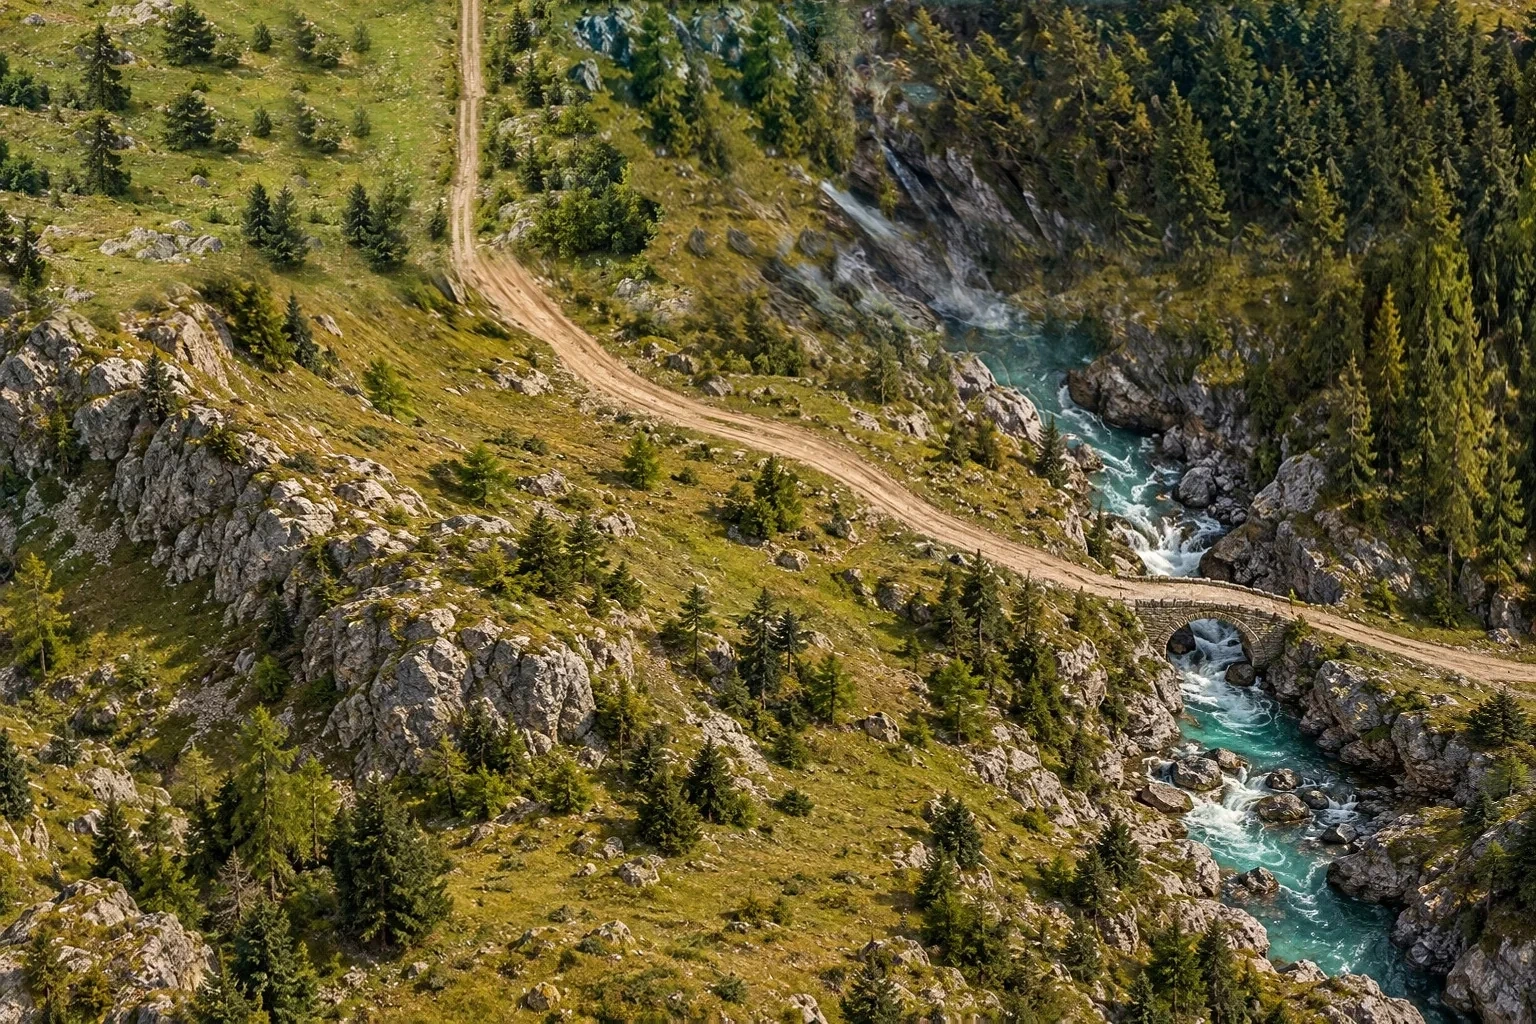
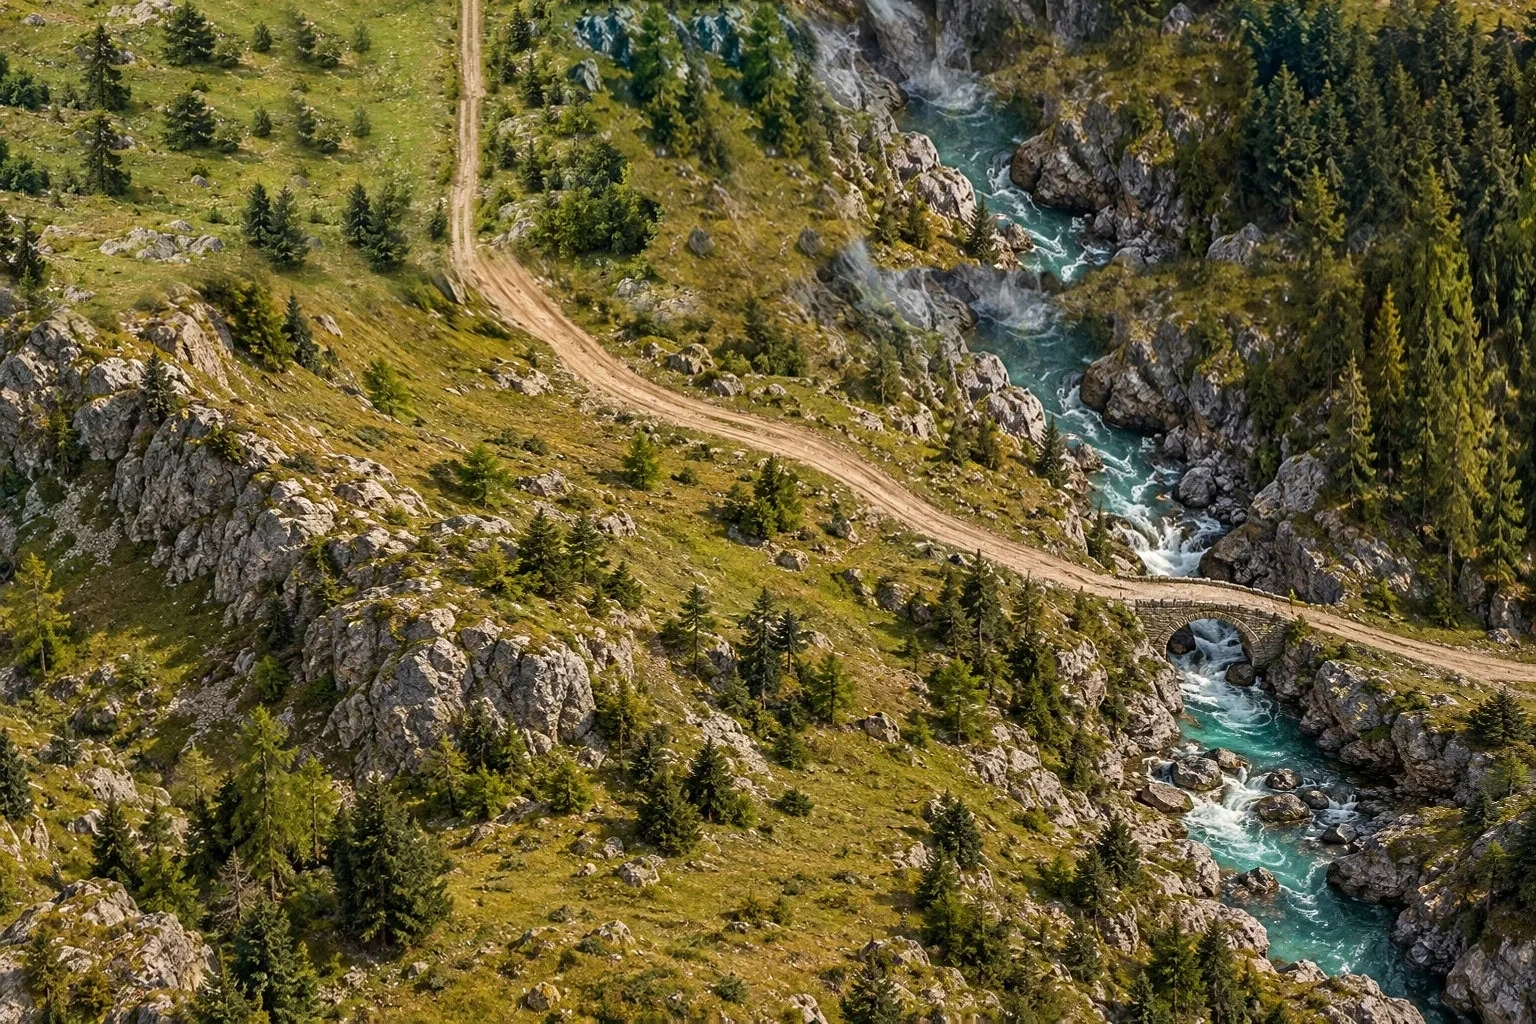
Register SOUTH upper gorge river artwork and actual iPhone-size review

diff --git a/art-reviews/v267-gorge-river-registration-review.md b/art-reviews/v267-gorge-river-registration-review.md
@@ -4,9 +4,9 @@ A substantive source-art candidate, not a verified historic Alpine map.
 Matrei visible river mouth ~x943; previous SOUTH upper mouth ~x1088.
 The upper native limestone and water corridor is locally registered toward the fixed Matrei mouth. Native tree/grass pixels are protected; the cartway and stone bridge stay at their existing V123 positions. No global SOUTH warp, mirrored tile, digital road stripe, invented settlement, V121/V123/V94/sprite/save or production change.
 
-Changed visible source pixels (>8 channel difference): 130981.
-Review with ?southArt=gorge against ?southArt=river at the same iPhone camera. Rock edges and forest transitions may still be visually imperfect. Passing movement tests does not approve art.
+Changed visible source pixels (>8 channel difference): 109495.
+Review ?southArt=gorge against ?southArt=river at the same iPhone camera. Rock edges and forest transitions may still be visually imperfect. Passing movement tests does not approve art.
 
 SOURCE SHA256: f0f4662b3d16b5d0abb5c642247eb7ee8df790fe1c6388180292da96f9a1ae62
-OUTPUT SHA256: 407ff99e1bead7afd8585802c0bf2321128a703ee5be7a17879876952b15b59e
+OUTPUT SHA256: dc1f45e9d15822bc84795e3b99ccf50485cde4e23da91a289850ef0553ba5bb4
 Production RED; requires physical iPhone visual approval.
